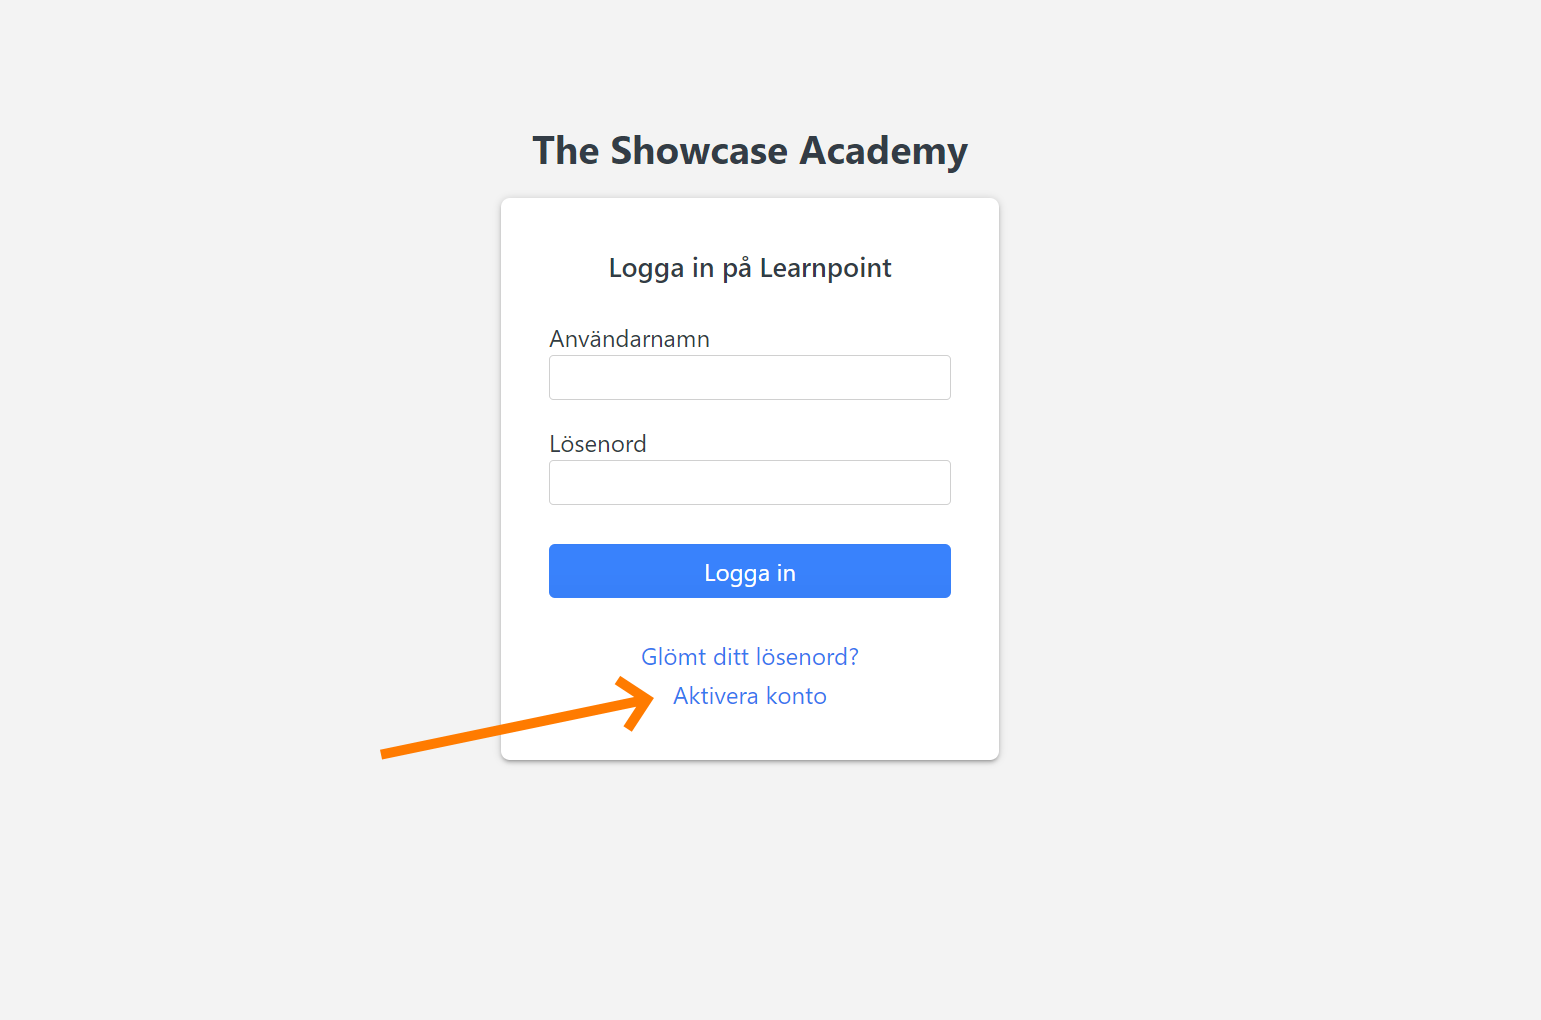
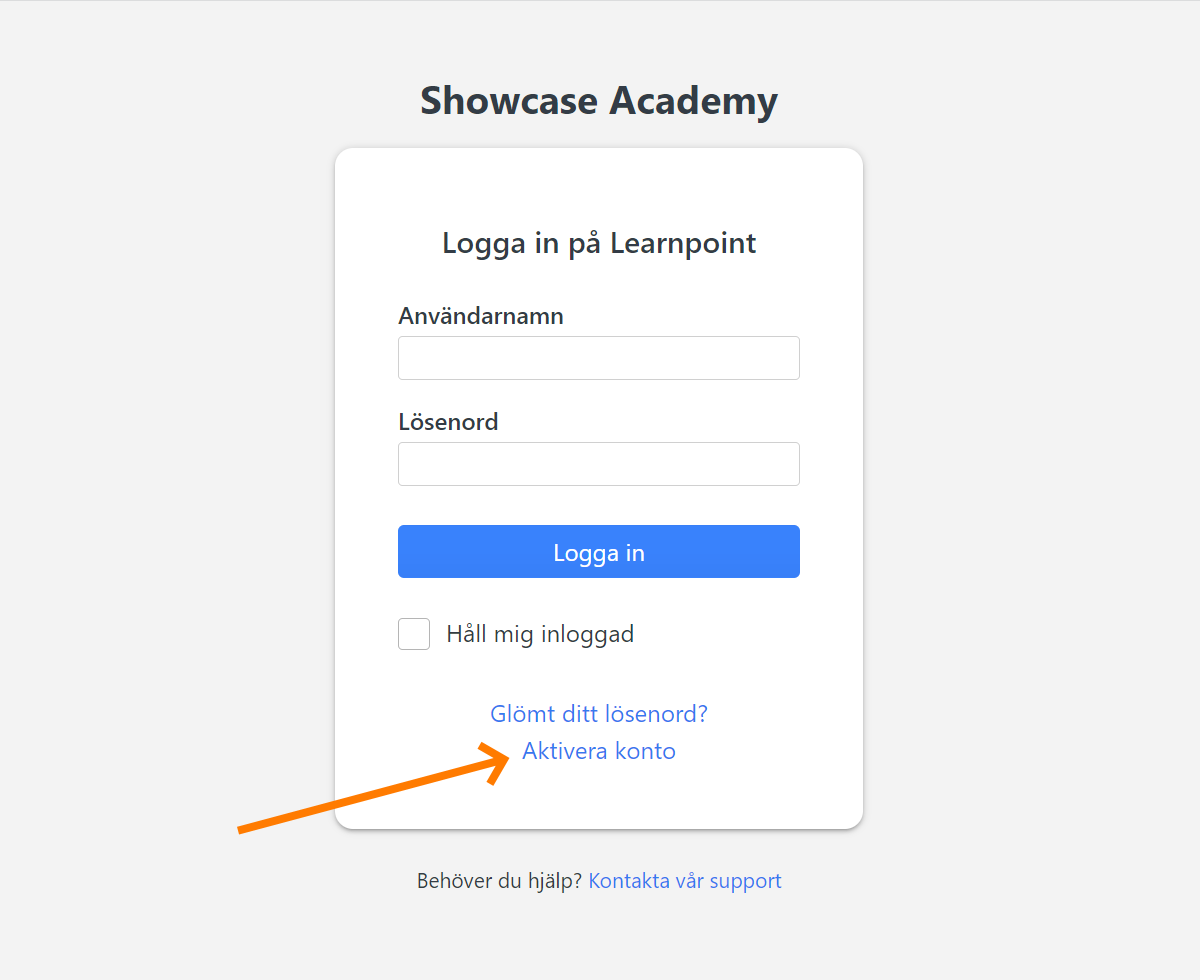
login screenshots

diff --git a/docs/help/getting-started/sign-in.html b/docs/help/getting-started/sign-in.html
@@ -180,16 +180,26 @@
 <h2>Hitta till skolans inloggningssida</h2>
 <ol>
 <li>Gå till <a href="/sign-in.html">learnpoint.se/sign-in.html</a></li>
-<li>Ange adressen till din skola.</li>
-<li>Klicka på <code>Fortsätt</code> för att komma till skolans inloggningssida.</li>
+<li>Skriv in adressen till din skola.</li>
+<li>Klicka på <code>Fortsätt</code>:</li>
 </ol>
+<div class="desktop-screenshot print__avoid-break-inside dark">
+    <div class="desktop-screenshot__browser-frame">
+        <span class="desktop-screenshot__browser-frame-button"></span>
+        <span class="desktop-screenshot__browser-frame-button"></span>
+        <span class="desktop-screenshot__browser-frame-button"></span>
+    </div>
+
+    <img alt="Hitta skolans inloggningssida" src="_assets/find-school-signin-page.png" onload="this.parentElement.classList.add('LOADED')" />
+</div>
+
 <h2>Aktivera konto</h2>
-<p>Om det är första gången du loggar in behöver du aktivera ditt konto:</p>
+<p>Du behöver aktivera ditt konto innan du kan logga in:</p>
 <ol>
-<li>Gå till skolan inloggningssida (se ovan).</li>
+<li>Hitta till skolan inloggningssida (se ovan).</li>
 <li>Klicka på <code>Aktivera konto</code>.</li>
 <li>Ange din e-postadress och klicka på <code>OK</code>.</li>
-<li>Du får inom kort ett mail med instruktioner för att aktivera kontot.</li>
+<li>Nu får du ett mejl med instruktioner. Kolla skräpposten om du inte hittar mejlet.</li>
 </ol>
 <div class="desktop-screenshot print__avoid-break-inside dark">
     <div class="desktop-screenshot__browser-frame">
@@ -204,8 +214,9 @@
 <h2>Logga in</h2>
 <p>När du aktiverat ditt konto loggar du in på följande sätt:</p>
 <ol>
-<li>Gå till skolan inloggningssida (se ovan).</li>
+<li>Hitta till skolan inloggningssida (se ovan).</li>
 <li>Ange användarnamn och lösenord.</li>
+<li>Kryssa i <code>Håll mig inloggad</code> om du vill hållas inloggad.</li>
 <li>Klicka på <code>Logga in</code>.</li>
 </ol>
 <div class="desktop-screenshot print__avoid-break-inside dark">
@@ -222,7 +233,7 @@
 <ol>
 <li>Kontrollera användarnamnet. Observera att du <strong>inte</strong> kan logga in med en mailadress.</li>
 <li>Kontrollera att <code>Caps Lock</code> inte är aktiverat på tangentbordet.</li>
-<li>Har du glömt ditt lösenord kan du återställa det. Klicka på <code>Glömt ditt lösenord?</code> och följ instruktionerna.</li>
+<li>Har du glömt lösenordet så kan du återställa det. Klicka på <code>Glömt ditt lösenord?</code> och följ instruktionerna.</li>
 </ol>
 <p>Lyckas du ändå inte logga in? <a href="/help/">Kontakta vår support</a> så hjälper vi till!</p>
 

diff --git a/docs/_styles/pages/help-page.css b/docs/_styles/pages/help-page.css
@@ -127,8 +127,8 @@
     font: inherit;
     font-weight: 600;
     font-size: 16px;
-    background-color: rgba(100, 0, 0, .05);
-    padding: 0 4px;
+    background-color: rgba(100, 0, 0, .06);
+    padding: 0 5px;
     border-radius: 4px;
 }
 

diff --git a/src/_styles/pages/help-page.css b/src/_styles/pages/help-page.css
@@ -127,8 +127,8 @@
     font: inherit;
     font-weight: 600;
     font-size: 16px;
-    background-color: rgba(100, 0, 0, .05);
-    padding: 0 4px;
+    background-color: rgba(100, 0, 0, .06);
+    padding: 0 5px;
     border-radius: 4px;
 }
 

diff --git a/src/help/getting-started/sign-in.md b/src/help/getting-started/sign-in.md
@@ -17,17 +17,19 @@ next_url: /help/getting-started/notifications.html
 ## Hitta till skolans inloggningssida
 
 1. Gå till [learnpoint.se/sign-in.html](/sign-in.html)
-1. Ange adressen till din skola.
-1. Klicka på `Fortsätt` för att komma till skolans inloggningssida.
+1. Skriv in adressen till din skola.
+1. Klicka på `Fortsätt`:
+
+<!-- desktop-screenshot.html, { src: "_assets/find-school-signin-page.png", alt: "Hitta skolans inloggningssida", theme: "dark" } -->
 
 ## Aktivera konto
 
-Om det är första gången du loggar in behöver du aktivera ditt konto:
+Du behöver aktivera ditt konto innan du kan logga in:
 
-1. Gå till skolan inloggningssida (se ovan).
+1. Hitta till skolan inloggningssida (se ovan).
 1. Klicka på `Aktivera konto`.
 1. Ange din e-postadress och klicka på `OK`.
-1. Du får inom kort ett mail med instruktioner för att aktivera kontot.
+1. Nu får du ett mejl med instruktioner. Kolla skräpposten om du inte hittar mejlet.
 
 <!-- desktop-screenshot.html, { src: "_assets/activate-account.png", alt: "Aktivera konto", theme: "dark" } -->
 
@@ -35,8 +37,9 @@ Om det är första gången du loggar in behöver du aktivera ditt konto:
 
 När du aktiverat ditt konto loggar du in på följande sätt:
 
-1. Gå till skolan inloggningssida (se ovan).
+1. Hitta till skolan inloggningssida (se ovan).
 1. Ange användarnamn och lösenord.
+1. Kryssa i `Håll mig inloggad` om du vill hållas inloggad.
 1. Klicka på `Logga in`.
 
 <!-- desktop-screenshot.html, { src: "_assets/sign-in.png", alt: "Logga in", theme: "dark" } -->
@@ -45,6 +48,6 @@ När du aktiverat ditt konto loggar du in på följande sätt:
 
 1. Kontrollera användarnamnet. Observera att du **inte** kan logga in med en mailadress.
 1. Kontrollera att `Caps Lock` inte är aktiverat på tangentbordet.
-1. Har du glömt ditt lösenord kan du återställa det. Klicka på `Glömt ditt lösenord?` och följ instruktionerna.
+2. Har du glömt lösenordet så kan du återställa det. Klicka på `Glömt ditt lösenord?` och följ instruktionerna.
 
 Lyckas du ändå inte logga in? [Kontakta vår support](/help/) så hjälper vi till!
